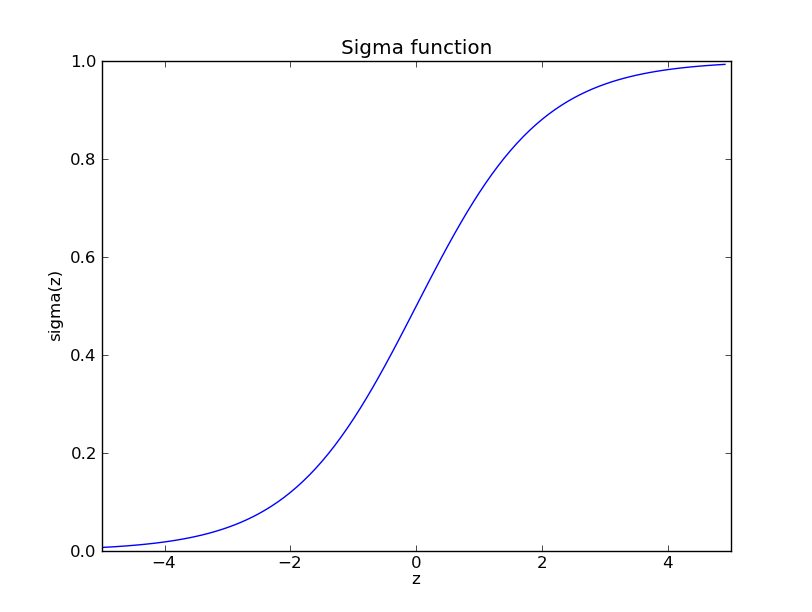
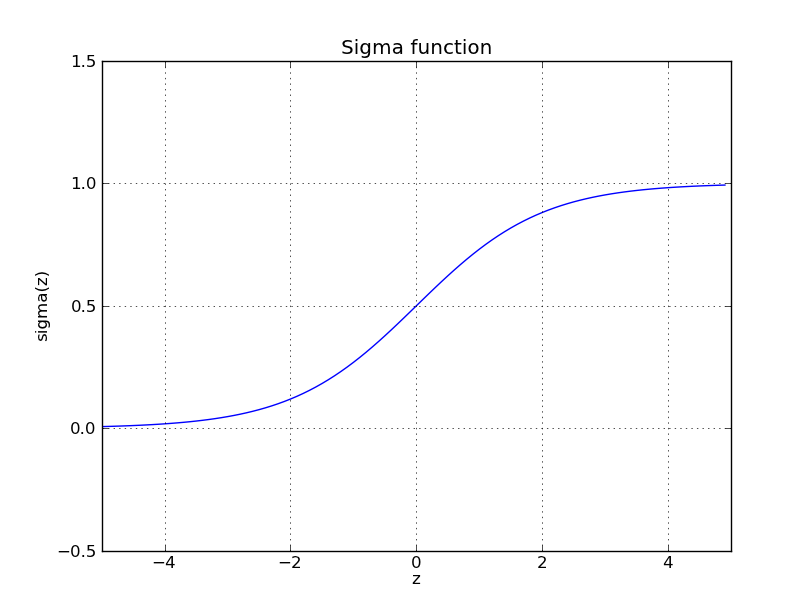
Added grid to sigmoid plot, rescaled axes

diff --git a/sigmoid.py b/sigmoid.py
@@ -14,9 +14,9 @@ sigma = sigma_fn(z)
 fig = plt.figure()
 ax = fig.add_subplot(111)
 ax.plot(z, sigma)
-ax.set_ylim([0,1])
+ax.set_ylim([-0.5, 1.5])
 ax.set_xlim([-5,5])
-ax.grid(False)
+ax.grid(True)
 ax.set_xlabel('z')
 ax.set_ylabel('sigma(z)')
 ax.set_title('Sigma function')
